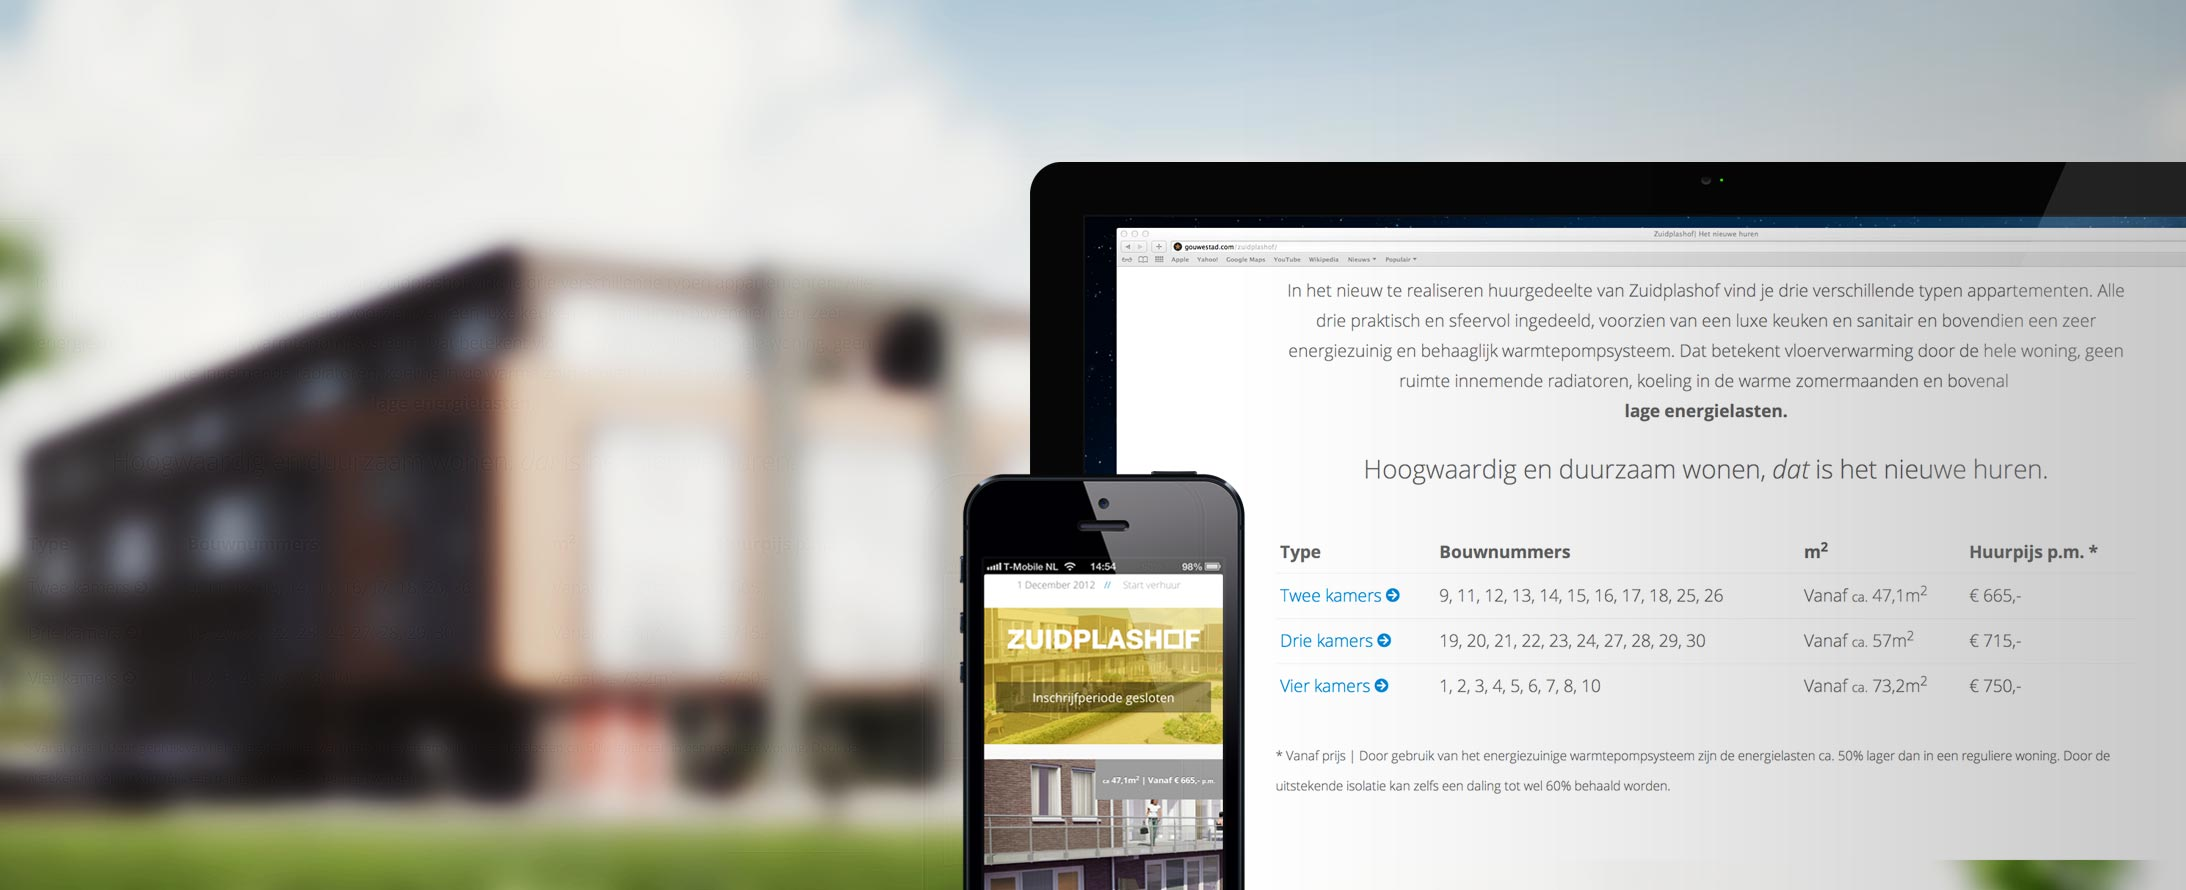
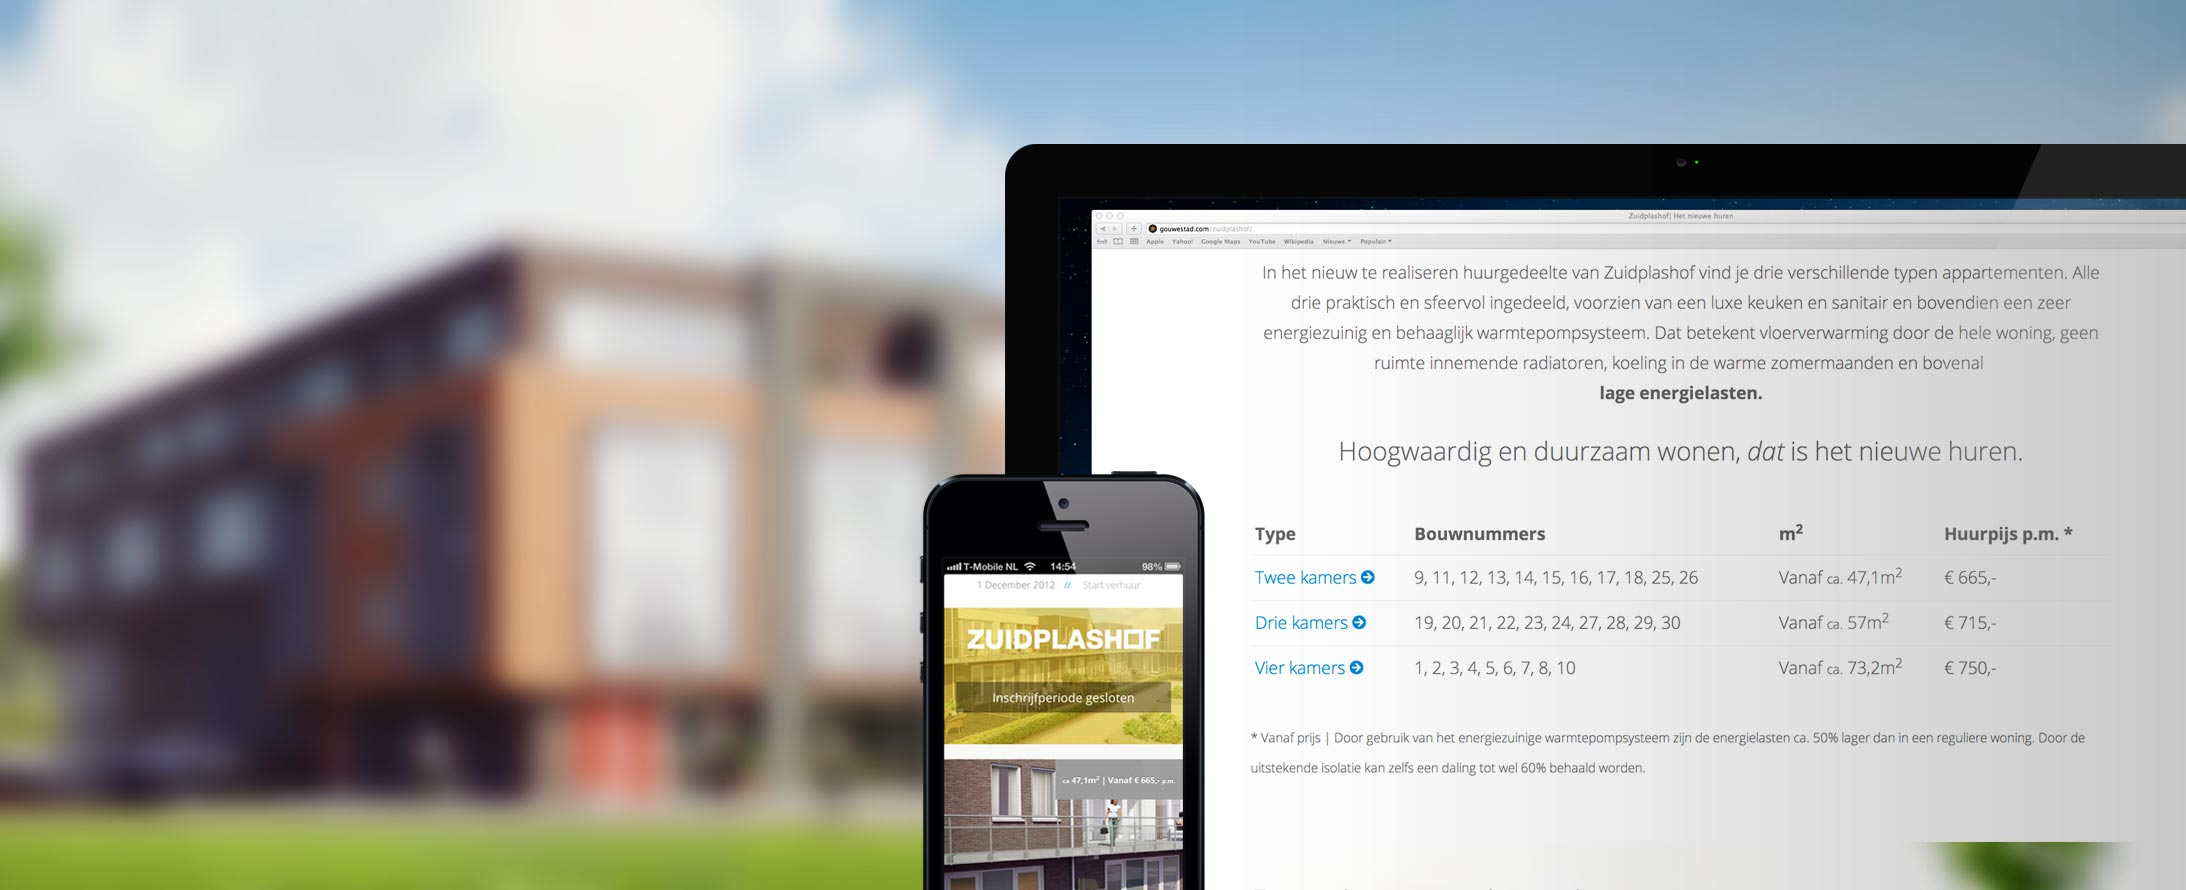
img update zuidplashof + gradient

diff --git a/_site/less/style.css b/_site/less/style.css
@@ -5670,11 +5670,11 @@ section#slider .flex-viewport ul li .main-img {
   top: 0;
   width: 100%;
   height: 100%;
-  background-color: rgba(0, 0, 0, 0.3);
-  background-image: -webkit-gradient(radial, center center, 0, center center, 460, from(rgba(8, 128, 192, 0.1)), to(rgba(0, 0, 0, 0.3)));
-  background-image: -webkit-radial-gradient(circle, rgba(8, 128, 192, 0.1), rgba(0, 0, 0, 0.3));
-  background-image: -moz-radial-gradient(circle, rgba(8, 128, 192, 0.1), rgba(0, 0, 0, 0.3));
-  background-image: radial-gradient(circle, rgba(8, 128, 192, 0.1), rgba(0, 0, 0, 0.3));
+  background-color: rgba(0, 0, 0, 0.2);
+  background-image: -webkit-gradient(radial, center center, 0, center center, 460, from(rgba(8, 128, 192, 0.2)), to(rgba(0, 0, 0, 0.2)));
+  background-image: -webkit-radial-gradient(circle, rgba(8, 128, 192, 0.2), rgba(0, 0, 0, 0.2));
+  background-image: -moz-radial-gradient(circle, rgba(8, 128, 192, 0.2), rgba(0, 0, 0, 0.2));
+  background-image: radial-gradient(circle, rgba(8, 128, 192, 0.2), rgba(0, 0, 0, 0.2));
   background-repeat: no-repeat;
 }
 #slider h1 {

diff --git a/less/style.css b/less/style.css
@@ -5670,11 +5670,11 @@ section#slider .flex-viewport ul li .main-img {
   top: 0;
   width: 100%;
   height: 100%;
-  background-color: rgba(0, 0, 0, 0.3);
-  background-image: -webkit-gradient(radial, center center, 0, center center, 460, from(rgba(8, 128, 192, 0.1)), to(rgba(0, 0, 0, 0.3)));
-  background-image: -webkit-radial-gradient(circle, rgba(8, 128, 192, 0.1), rgba(0, 0, 0, 0.3));
-  background-image: -moz-radial-gradient(circle, rgba(8, 128, 192, 0.1), rgba(0, 0, 0, 0.3));
-  background-image: radial-gradient(circle, rgba(8, 128, 192, 0.1), rgba(0, 0, 0, 0.3));
+  background-color: rgba(0, 0, 0, 0.2);
+  background-image: -webkit-gradient(radial, center center, 0, center center, 460, from(rgba(8, 128, 192, 0.2)), to(rgba(0, 0, 0, 0.2)));
+  background-image: -webkit-radial-gradient(circle, rgba(8, 128, 192, 0.2), rgba(0, 0, 0, 0.2));
+  background-image: -moz-radial-gradient(circle, rgba(8, 128, 192, 0.2), rgba(0, 0, 0, 0.2));
+  background-image: radial-gradient(circle, rgba(8, 128, 192, 0.2), rgba(0, 0, 0, 0.2));
   background-repeat: no-repeat;
 }
 #slider h1 {

diff --git a/_site/less/site/home.less b/_site/less/site/home.less
@@ -76,7 +76,7 @@ section#slider{
 		top: 0;
 		width: 100%;
 		height: 100%;
-		#gradient > .radial(rgba(8,128,192,0.1), rgba(0,0,0,0.3)); // Gradient in Gouwestad blauw
+		#gradient > .radial(rgba(8,128,192,0.2), rgba(0,0,0,0.2)); // Gradient in Gouwestad blauw
 	}
 
 	h1{

diff --git a/less/site/home.less b/less/site/home.less
@@ -76,7 +76,7 @@ section#slider{
 		top: 0;
 		width: 100%;
 		height: 100%;
-		#gradient > .radial(rgba(8,128,192,0.1), rgba(0,0,0,0.3)); // Gradient in Gouwestad blauw
+		#gradient > .radial(rgba(8,128,192,0.2), rgba(0,0,0,0.2)); // Gradient in Gouwestad blauw
 	}
 
 	h1{
